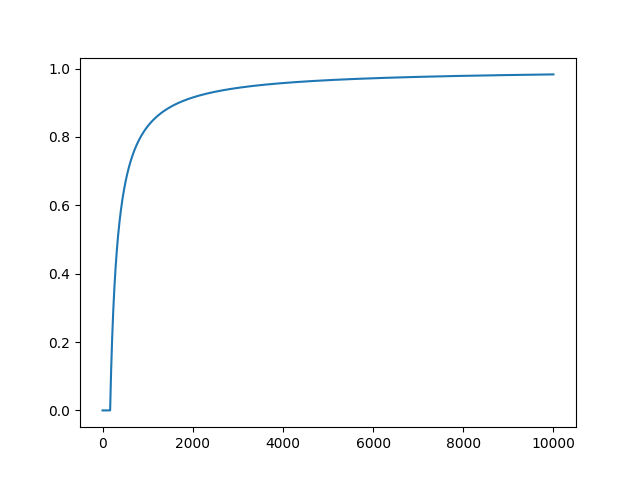
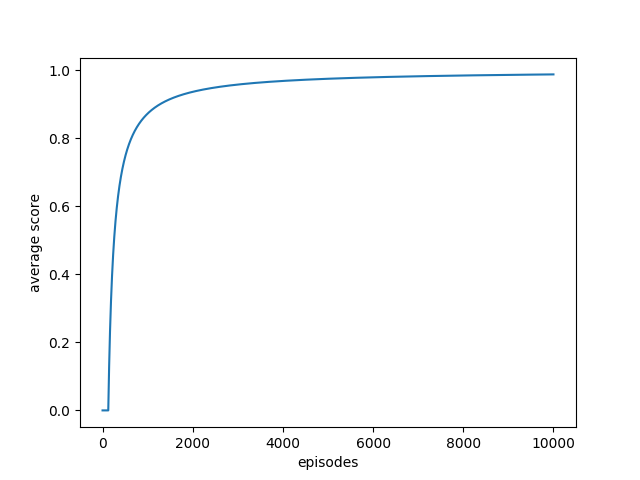
plot labels

diff --git a/q1.py b/q1.py
@@ -71,6 +71,8 @@ def rmax(env, gamma, m, R_max, epsilon, num_episodes, max_step = 6):
         avg_scores[episode] = total_score / (episode + 1)
 
     plt.plot(range(num_episodes), avg_scores)
+    plt.xlabel('episodes')
+    plt.ylabel('average score')
     plt.savefig('avg_scores_m=' + str(m) + '.png')
 
             
@@ -84,7 +86,7 @@ def rmax(env, gamma, m, R_max, epsilon, num_episodes, max_step = 6):
 def main():
 	env = FrozenLakeEnv(is_slippery=False)
 	print env.__doc__
-	Q = rmax(env, gamma = 0.99, m=20, R_max = 1, epsilon = 0.1, num_episodes = 10000)
+	Q = rmax(env, gamma = 0.99, m=10, R_max = 1, epsilon = 0.1, num_episodes = 10000)
 	render_single_Q(env, Q)
 
 
